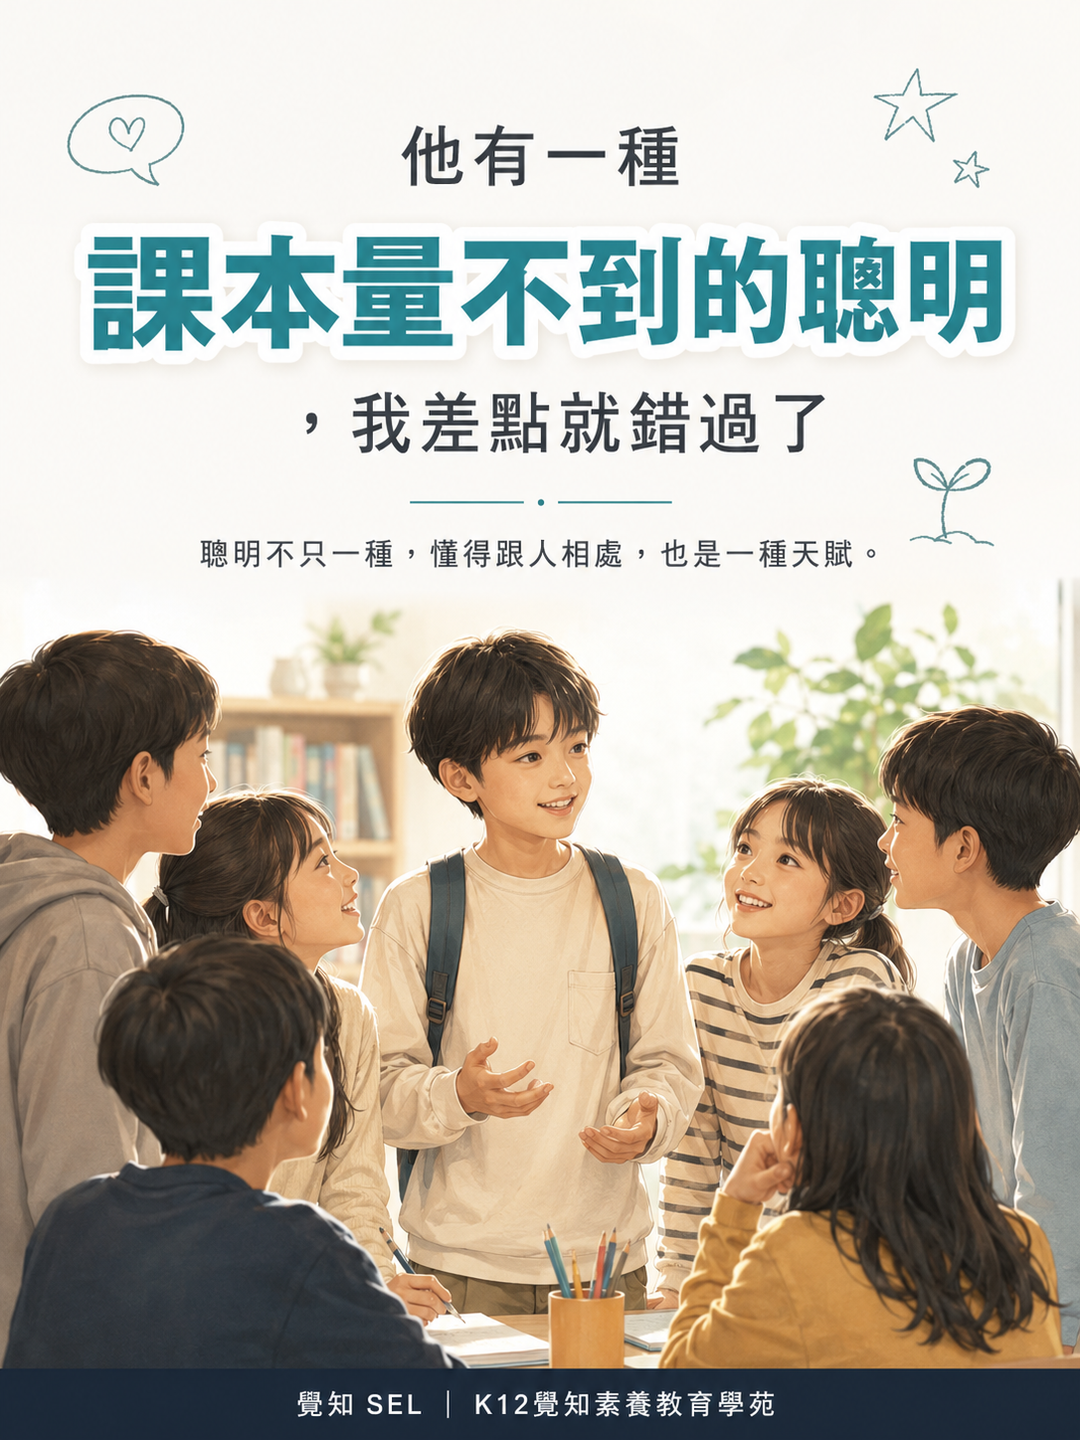
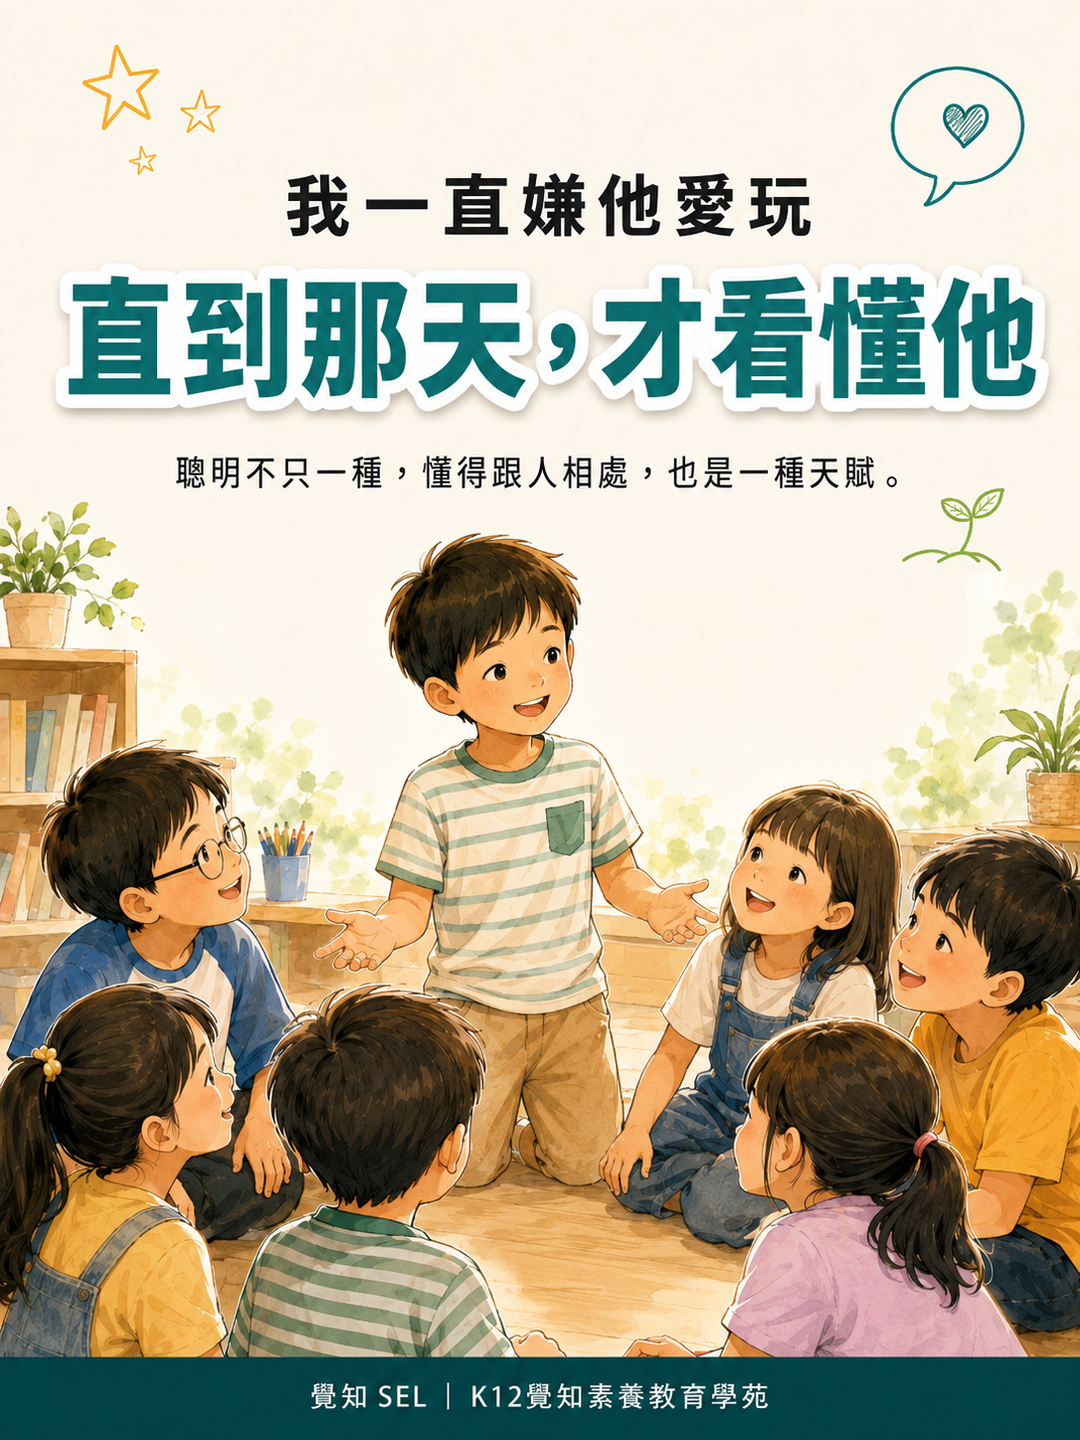
auto: dailynews update 2026-08-07 17:05 TW

diff --git a/2026-08/parenting_essence_2026-08-07.html b/2026-08/parenting_essence_2026-08-07.html
@@ -6,13 +6,13 @@
   <title>一群孩子都繞著他轉，我卻總嫌他不夠用功 ｜ 覺知教養．每日精華</title>
   <meta name="description" content="這個暑假，樓下那群孩子的中心總是我兒子——喊規則、分隊伍、有人吵架就跑去講和。一開始我只嫌他功課普普、不夠用功。直到那天他把兩個快打起來的孩子勸和，我才慢慢想通：聰明其實不只一種，懂得跟人相處也是一種天賦，只是考卷上量不到。這一篇談的，是怎麼認出孩子課本外的那種亮光，再把它好好講給他聽。">
   <meta name="keywords" content="多元智能,八大智能,天賦,人際智能,長處,優勢,認出孩子,成績,功課,課本,聰明,國小,低年級,中年級,同儕,玩耍,講和,親子,家長,教養,覺知教養,覺知素養,親子關係,心智光譜,SEL,社會情緒學習">
-  <meta name="share-title" content="他有一種課本量不到的聰明，我差點就錯過了">
+  <meta name="share-title" content="我一直嫌他愛玩，直到那天，才看懂他">
   <meta name="share-tint" content="sage">
   <meta name="share-palette" content="blush">
   <meta name="hero-title-pos" content="center">
   <meta name="share-teaser" content="他功課普普，卻是一群孩子的中心">
   <meta name="share-explainer" content="聰明不只一種；懂得跟人相處，也是真真實實的天賦，只是考卷上量不到。">
-  <meta name="share-highlight" content="課本量不到的聰明">
+  <meta name="share-highlight" content="直到那天，才看懂他">
   <meta name="share-cta" content="家裡也有個「成績普普、卻很會跟人相處」的孩子，把這篇轉給另一半 →">
   <style>
 /* base placeholder — post_essence.py 會注入 v13 完整設計於此 */
@@ -2744,7 +2744,7 @@ body .body section {
 
 <!-- Twitter Card -->
 <meta name="twitter:card" content="summary_large_image">
-<meta name="twitter:title" content="他有一種課本量不到的聰明，我差點就錯過了">
+<meta name="twitter:title" content="我一直嫌他愛玩，直到那天，才看懂他">
 <meta name="twitter:description" content="這個暑假，樓下那群孩子的中心總是我兒子——喊規則、分隊伍、有人吵架就跑去講和。一開始我只嫌他功課普普、不夠用功。直到那天他把兩個快打起來的孩子勸和，我才慢慢想通：聰明其實不只一種，懂得跟人相處也是一種天賦，只是考卷上量不到。這一篇談的，是怎麼認出孩子課本外的那種亮光，再把它好好講給他聽。">
 <meta name="twitter:image" content="https://zway-education.github.io/education-dailynews/2026-08/parenting_essence_2026-08-07_share.png">
 
